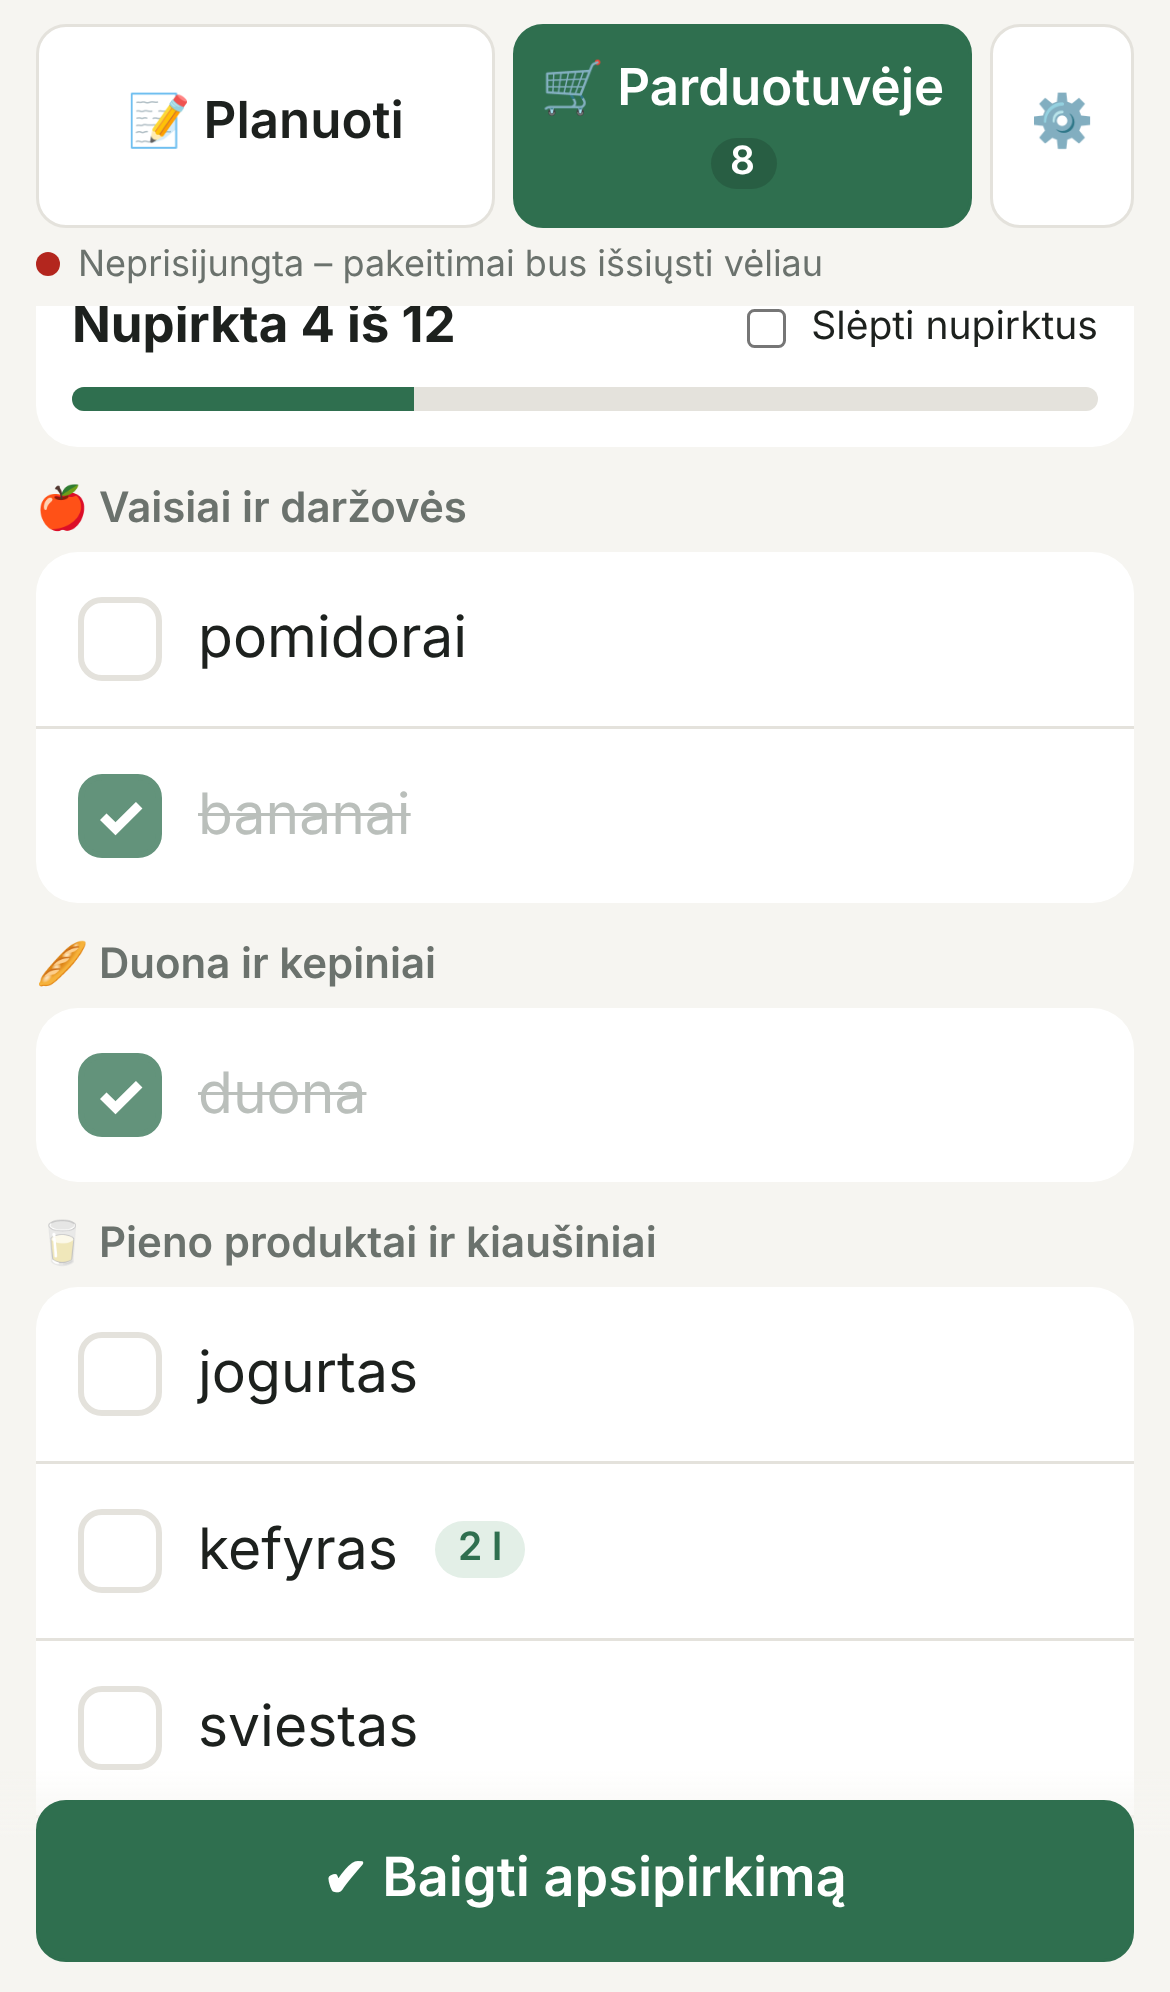
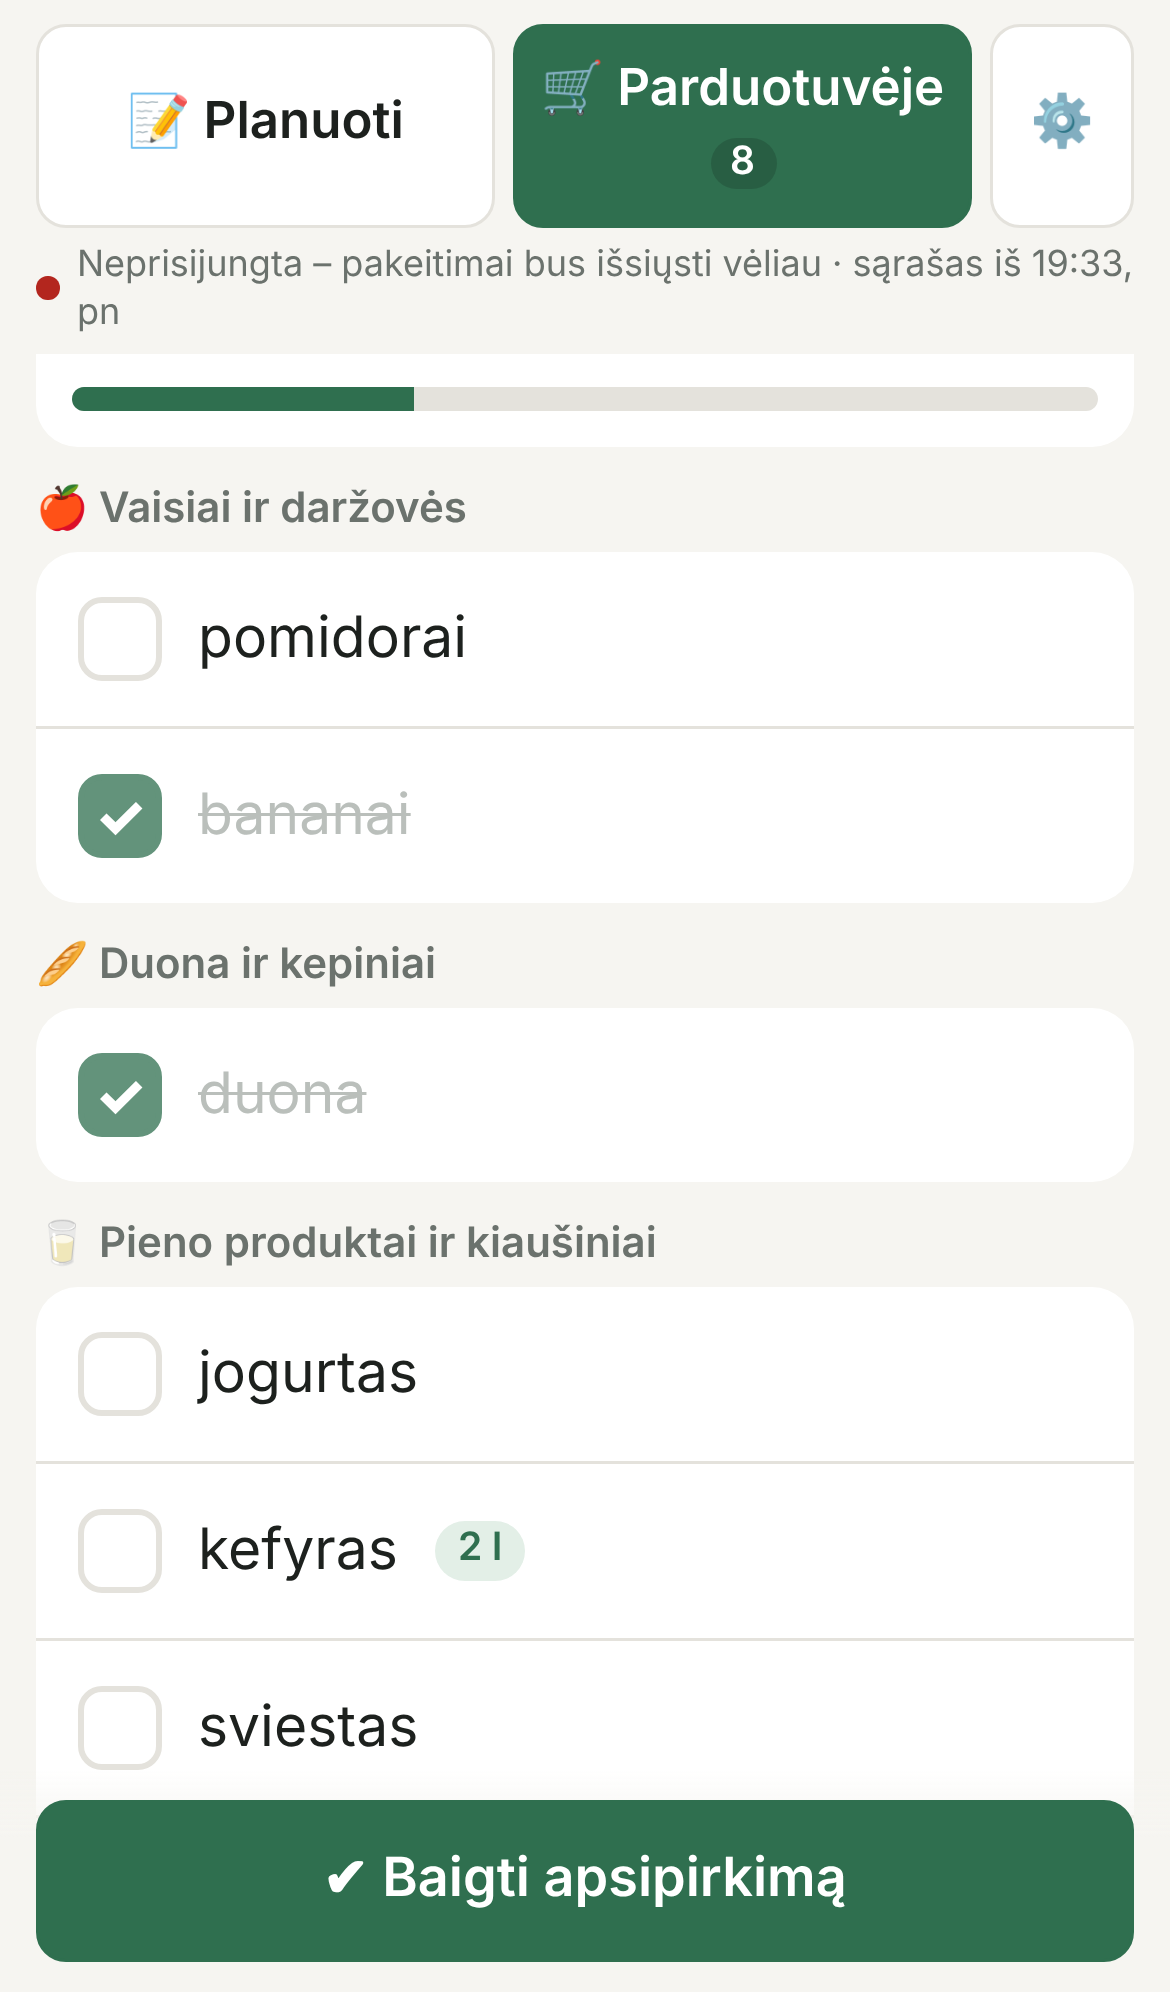
handoff: grocery module checked against mappal-context skill
- DeepSeek calls count against MapPal's shared cap deepseek:grocery
  (200/day, 3,000/month, listed on /sources) and the shared token counters
- AI-filed products marked with a sparkle (honest sources)
- offline banner shows when the list was last synced
- live URL kept out of the repo (README, skill)
- INBOX entry (done) and STATUS update

Claude-Session: https://claude.ai/code/session_01VnTv4NnhEMMTvw8Z3ZnhqT

Changed region(s): [[0.0308, 0.1245, 0.4923, 0.1867], [0.7077, 0.1245, 0.9538, 0.1867], [0.5231, 0.1245, 0.6769, 0.1867]]

diff --git a/lib/grocery/llm/deepseek.ts b/lib/grocery/llm/deepseek.ts
@@ -1,13 +1,16 @@
-// DeepSeek (OpenAI-compatible chat API), same key as MapPal. Every call is
-// logged in grocery_ai_call (purpose, tokens, ok/error) and counted against a
-// daily cap (GROCERY_AI_DAILY_CAP, default 200). Only list/product text is
-// sent — never family names or locations.
+// DeepSeek (OpenAI-compatible chat API), MapPal's key. Every call counts
+// against MapPal's shared cap "deepseek:grocery" (lib/sources/usage.ts, shown
+// on /sources; override with CAP_DEEPSEEK_GROCERY_DAILY/_MONTHLY), adds its
+// tokens to the shared deepseek tokens-in/out counters, and is logged in
+// grocery_ai_call (purpose, ok/error). Only list/product text is sent —
+// never family names or locations.
 import { prisma } from "../../db";
+import { createUsageGuard, today } from "../../sources/usage";
+import { dbUsageStore } from "../../sources/usageDb";
 
 const BASE = "https://api.deepseek.com";
 export const aiModel = () => process.env.DEEPSEEK_MODEL?.trim() || "deepseek-flash";
 export const aiConfigured = () => !!process.env.DEEPSEEK_API_KEY?.trim();
-const dailyCap = () => Number(process.env.GROCERY_AI_DAILY_CAP) || 200;
 
 export class AiUnavailable extends Error {}
 
@@ -25,15 +28,9 @@ export function parseJsonReply(text: string): unknown {
   }
 }
 
-export async function aiCallsToday(): Promise<number> {
-  const start = new Date();
-  start.setUTCHours(0, 0, 0, 0);
-  return prisma.groceryAiCall.count({ where: { at: { gte: start } } });
-}
-
 export const deepseekChatJson: ChatJson = async (purpose, system, user, opts = {}) => {
   if (!aiConfigured()) throw new AiUnavailable("DEEPSEEK_API_KEY not set");
-  if ((await aiCallsToday()) >= dailyCap()) throw new AiUnavailable("daily AI cap reached");
+  if (!(await createUsageGuard(dbUsageStore).take("deepseek", "grocery"))) throw new AiUnavailable("DeepSeek grocery cap reached (see /sources)");
   const model = aiModel();
   let tokensIn = 0;
   let tokensOut = 0;
@@ -61,6 +58,8 @@ export const deepseekChatJson: ChatJson = async (purpose, system, user, opts = {
     };
     tokensIn = body.usage?.prompt_tokens ?? 0;
     tokensOut = body.usage?.completion_tokens ?? 0;
+    const day = today();
+    await Promise.all([dbUsageStore.add("deepseek", "tokens-in", day, tokensIn), dbUsageStore.add("deepseek", "tokens-out", day, tokensOut)]);
     if (!res.ok) throw new Error(`DeepSeek ${res.status}: ${body.error?.message ?? "request failed"}`);
     const json = parseJsonReply(body.choices?.[0]?.message?.content ?? "");
     await prisma.groceryAiCall.create({ data: { purpose, model, tokensIn, tokensOut, ok: true } });

diff --git a/components/grocery/useSync.ts b/components/grocery/useSync.ts
@@ -15,7 +15,7 @@ export type Op =
   | { opId: string; type: "patch"; id: string; patch: EntryPatch }
   | { opId: string; type: "finish" };
 
-type Snapshot = { version: string; catalogVersion: string; entries: EntryDto[]; trip: TripDto; categories: CategoryDto[] };
+type Snapshot = { syncedAt?: string; version: string; catalogVersion: string; entries: EntryDto[]; trip: TripDto; categories: CategoryDto[] };
 type Catalog = { version: string; products: CatalogItem[]; categories: CategoryDto[] };
 
 function readJson<T>(key: string): T | null {
@@ -105,10 +105,12 @@ export function useSync(opts: { fast: boolean; member: string | null }) {
     try {
       const v = serverRef.current?.version;
       const r = await call<Snapshot & { unchanged?: boolean }>(`/api/grocery/state${v ? `?v=${encodeURIComponent(v)}` : ""}`);
-      if (!r.unchanged) {
-        serverRef.current = r;
-        lsSet(LS.state, JSON.stringify(r));
-        setServer(r);
+      const syncedAt = new Date().toISOString();
+      const next = r.unchanged ? (serverRef.current ? { ...serverRef.current, syncedAt } : null) : { ...r, syncedAt };
+      if (next) {
+        serverRef.current = next;
+        lsSet(LS.state, JSON.stringify(next));
+        setServer(next);
       }
       if (!catalogRef.current || catalogRef.current.version !== r.catalogVersion) await loadCatalog();
       setStatus(outboxRef.current.length ? "pending" : "live");
@@ -181,5 +183,5 @@ export function useSync(opts: { fast: boolean; member: string | null }) {
   );
 
   const view = server ? applyOps(server, outbox, opts.member) : null;
-  return { view, catalog, status, enqueue, refreshCatalog: loadCatalog, poll };
+  return { view, catalog, status, syncedAt: server?.syncedAt ?? null, enqueue, refreshCatalog: loadCatalog, poll };
 }

diff --git a/components/grocery/Plan.tsx b/components/grocery/Plan.tsx
@@ -282,6 +282,7 @@ function Suggestions({ ctx }: { ctx: Ctx }) {
 
 function ListSection({ ctx, title, entries, onEdit }: { ctx: Ctx; title: string; entries: EntryDto[]; onEdit: (e: EntryDto) => void }) {
   const groups = groupByCategory(entries, ctx.categories);
+  const aiProducts = new Set(ctx.catalog.filter((c) => c.source === "ai").map((c) => c.id));
   return (
     <section className="list">
       <h2>{title}</h2>
@@ -295,7 +296,7 @@ function ListSection({ ctx, title, entries, onEdit }: { ctx: Ctx; title: string;
                   <span className="name">{e.name}</span>
                   {e.qty ? <span className="qty">{e.qty}</span> : null}
                   {e.note ? <span className="muted small note">{e.note}</span> : null}
-                  {e.via === "ai" ? <span className="muted small" title="DeepSeek">✨</span> : null}
+                  {e.via === "ai" || (e.productId && aiProducts.has(e.productId)) ? <span className="muted small" title={ctx.tr("byAi")}>✨</span> : null}
                   {e.addedBy && e.addedBy !== ctx.member ? <span className="who">{e.addedBy}</span> : null}
                 </button>
                 <button

diff --git a/components/grocery/App.tsx b/components/grocery/App.tsx
@@ -191,7 +191,8 @@ function Main({ lang, member, setLang, setMember }: { lang: Lang; member: string
   };
 
   const openCount = ctx.entries.filter((e) => e.status === "OPEN" && e.kind === "GROCERY").length;
-  const statusLabel = sync.status === "offline" ? tr("offline") : sync.status === "pending" ? tr("pending") : sync.status === "unauthorized" ? tr("badLink") : tr("live");
+  const syncedAgo = sync.syncedAt ? new Date(sync.syncedAt).toLocaleString(lang === "en" ? "en-GB" : "lt-LT", { hour: "2-digit", minute: "2-digit" }) : null;
+  const statusLabel = sync.status === "offline" ? `${tr("offline")}${syncedAgo ? ` · ${tr("lastSync", { t: syncedAgo })}` : ""}` : sync.status === "pending" ? tr("pending") : sync.status === "unauthorized" ? tr("badLink") : tr("live");
 
   return (
     <div className="app">

diff --git a/components/grocery/Settings.tsx b/components/grocery/Settings.tsx
@@ -121,6 +121,7 @@ function CatalogEditor({ ctx }: { ctx: Ctx }) {
                 <button className="rowbtn" onClick={() => setEdit(p)}>
                   <span className="emoji">{ctx.catEmoji(p.categoryId)}</span>
                   <span className="name">{p.name}</span>
+                  {p.source === "ai" ? <span className="muted small" title={ctx.tr("byAi")}>✨</span> : null}
                   <span className="muted small">{[p.nameEn, ...p.aliases].filter(Boolean).slice(0, 3).join(", ")}</span>
                   {p.uses ? <span className="qty">{p.uses}×</span> : null}
                 </button>

diff --git a/lib/sources/usage.ts b/lib/sources/usage.ts
@@ -27,6 +27,9 @@ export const DEFAULT_CAPS: Record<string, Cap> = {
   "deepseek:chat": { daily: 150, monthly: 3000 },
   // Scenario agents (top-down plan per area, validator checks per run).
   "deepseek:agent": { daily: 300, monthly: 4000 },
+  // Grocery list module (/grocery): parsing what the catalog can't place,
+  // filing new items, the optional smart shortlist.
+  "deepseek:grocery": { daily: 200, monthly: 3000 },
 };
 
 /** Env override: CAP_GOOGLE_PLACE_DETAILS_ATMOSPHERE_DAILY=10 etc. */

diff --git a/components/grocery/i18n.ts b/components/grocery/i18n.ts
@@ -83,6 +83,8 @@ const STRINGS = {
   you: ["tu", "you"],
   changeName: ["Keisti vardą", "Change name"],
   working: ["Galvoju…", "Thinking…"],
+  byAi: ["Pavadinimą ar skyrių parinko DeepSeek (AI)", "Name or section chosen by DeepSeek (AI)"],
+  lastSync: ["sąrašas iš {t}", "list from {t}"],
 } as const;
 
 export type Key = keyof typeof STRINGS;

diff --git a/lib/grocery/text.ts b/lib/grocery/text.ts
@@ -11,6 +11,8 @@ export type CatalogItem = {
   categoryId: string;
   kind: "GROCERY" | "LONGTERM";
   staple?: boolean;
+  /** seed | user | ai — "ai" means DeepSeek named/filed it (shown with ✨). */
+  source?: string;
   /** Times it was put on the list. */
   uses?: number;
   /** Last time it was put on the list (ISO). */

diff --git a/lib/grocery/store.ts b/lib/grocery/store.ts
@@ -74,6 +74,7 @@ export async function loadCatalog(): Promise<{ categories: CategoryDto[]; produc
       categoryId: p.categoryId,
       kind: p.kind,
       staple: p.staple,
+      source: p.source,
       uses: Number(byId.get(p.id)?.uses ?? 0),
       lastUsedAt: byId.get(p.id)?.last.toISOString() ?? null,
     })),

diff --git a/docs/handoff/STATUS.md b/docs/handoff/STATUS.md
@@ -9,8 +9,9 @@ Newest on top. Each entry: date, task, what changed (commits), evidence
 - **What changed** (branch `claude/grocery-list-app-5k8nfx`, **not on `main` yet**):
   - `/grocery` module: `lib/grocery`, `components/grocery`, `app/grocery`, `app/api/grocery`, `public/grocery`, `Grocery*` models (`grocery_*` tables), migration `20261120190000_grocery_list`, `isGrocery` in `proxy.ts`. Docs: `docs/grocery/README.md`, prompts `docs/grocery/PROMPTS.md`, skill `docs/grocery/skill/`.
   - Security: Next 16.4.2 → 16.4.6 (5 advisories), Prisma CLI deps pinned via `overrides` (effect, deepmerge-ts), typescript-eslint/minimatch. `npm audit`: 12 → 0.
-- **Evidence:** `docs/grocery/evidence/` (local production build, two emulated iPhones, synthetic history, AI off). 110 tests, lint, typecheck, build pass.
-- **Not proven:** DeepSeek parsing/shortlist live (no key in the sandbox; unit-tested with a fake model); real iPhone Safari Home Screen install; Claude/ChatGPT connector setup.
+  - Checked against `.claude/skills/mappal-context`: DeepSeek calls now count against MapPal's shared cap `deepseek:grocery` (200/day, 3,000/month, on `/sources`) and the shared token counters; AI-filed products show ✨; offline banner shows when the list was last synced; live URL kept out of the repo.
+- **Evidence:** `docs/grocery/evidence/` (local production build, two emulated iPhones, synthetic history, AI off). 110 tests, lint, typecheck, build pass. Also running on the branch's Vercel preview (same `map-pal` project): page, token check, DB, seed catalog, parse, MCP OK; AI reported off there (`DEEPSEEK_API_KEY` apparently not set for Preview).
+- **Not proven:** DeepSeek parsing/shortlist live (no key in the sandbox or on Preview; unit-tested with a fake model); real iPhone Safari Home Screen install; Claude/ChatGPT connector setup. Not tied to Spain/Portugal places (it holds no locations); item names are Lithuanian with some es/pt aliases.
 - **Questions for the owner:** merge to `main` to deploy?
 
 ## 2026-11-16 — Offline places in the web app, Home Screen app, diesel-only fuel

diff --git a/docs/handoff/INBOX.md b/docs/handoff/INBOX.md
@@ -4,6 +4,10 @@ From the owner or chat Claude. Newest on top. Each entry is dated and has a
 status: open / in progress / done. See `.claude/skills/mappal-context/SKILL.md`
 → "Handoff protocol".
 
+## 2026-11-20 — Family grocery list (G6) — done
+
+Owner in chat: a shared grocery list for the family's phones — frequent items without retyping, autocomplete, dictation in Lithuanian + English parsed by DeepSeek with the known taxonomy, supermarket-aisle grouping, live crossing-out between phones, long-term purchases that roll over, a skill + basic MCP for Claude/ChatGPT, one token link (no login screen), a removable module with its own table prefix. Decisions from the owner's answers: one editable aisle order, iPhone keyboard dictation, suggestions added with one tap, **same Vercel project as MapPal**. Then: "Do security updates". Report: STATUS.md, same date.
+
 ## 2026-11-06 — Phase 4: one-tap map UI — open
 
 Main screen: map (OSM default, Google switchable) + scenario buttons; tap → cached result instantly, else live run with spinner; tiered list over the map, red crosses, nav links, Google preview on tap. Waiting for the owner's go after reviewing the phase 2–3 STATUS entry and trying `/scenarios` on the live app.

diff --git a/docs/grocery/README.md b/docs/grocery/README.md
@@ -6,7 +6,7 @@ same Supabase project; owner 2026-11-20, AGENTS.md G6). It lives at `/grocery`
 and has its own token auth, its own `grocery_*` tables and enums, and no imports
 from MapPal code except the shared Prisma client (`lib/db.ts`). See "Removing it" below.
 
-**Open it:** https://map-pal-mike-base.vercel.app/grocery#t=<family token>
+**Open it:** `<MapPal URL>/grocery#t=<family token>` (the live URL and the token are not kept in the repo; ask the owner).
 
 ## What it does
 
@@ -37,8 +37,9 @@ MCP connector URL: `/api/grocery/mcp/<token>`.
 ## Settings
 
 Nothing extra to set: it uses MapPal's `DATABASE_URL` and `DEEPSEEK_API_KEY`.
-Optional: `GROCERY_AI_DAILY_CAP` (default 200 DeepSeek calls a day, logged in
-`grocery_ai_call`), `GROCERY_TOKEN`.
+DeepSeek calls count against MapPal's shared cap `deepseek:grocery` (200/day,
+3,000/month, shown on `/sources`; `CAP_DEEPSEEK_GROCERY_DAILY` / `_MONTHLY`
+override it) and are logged in `grocery_ai_call`. Optional: `GROCERY_TOKEN`.
 
 ## Local
 
